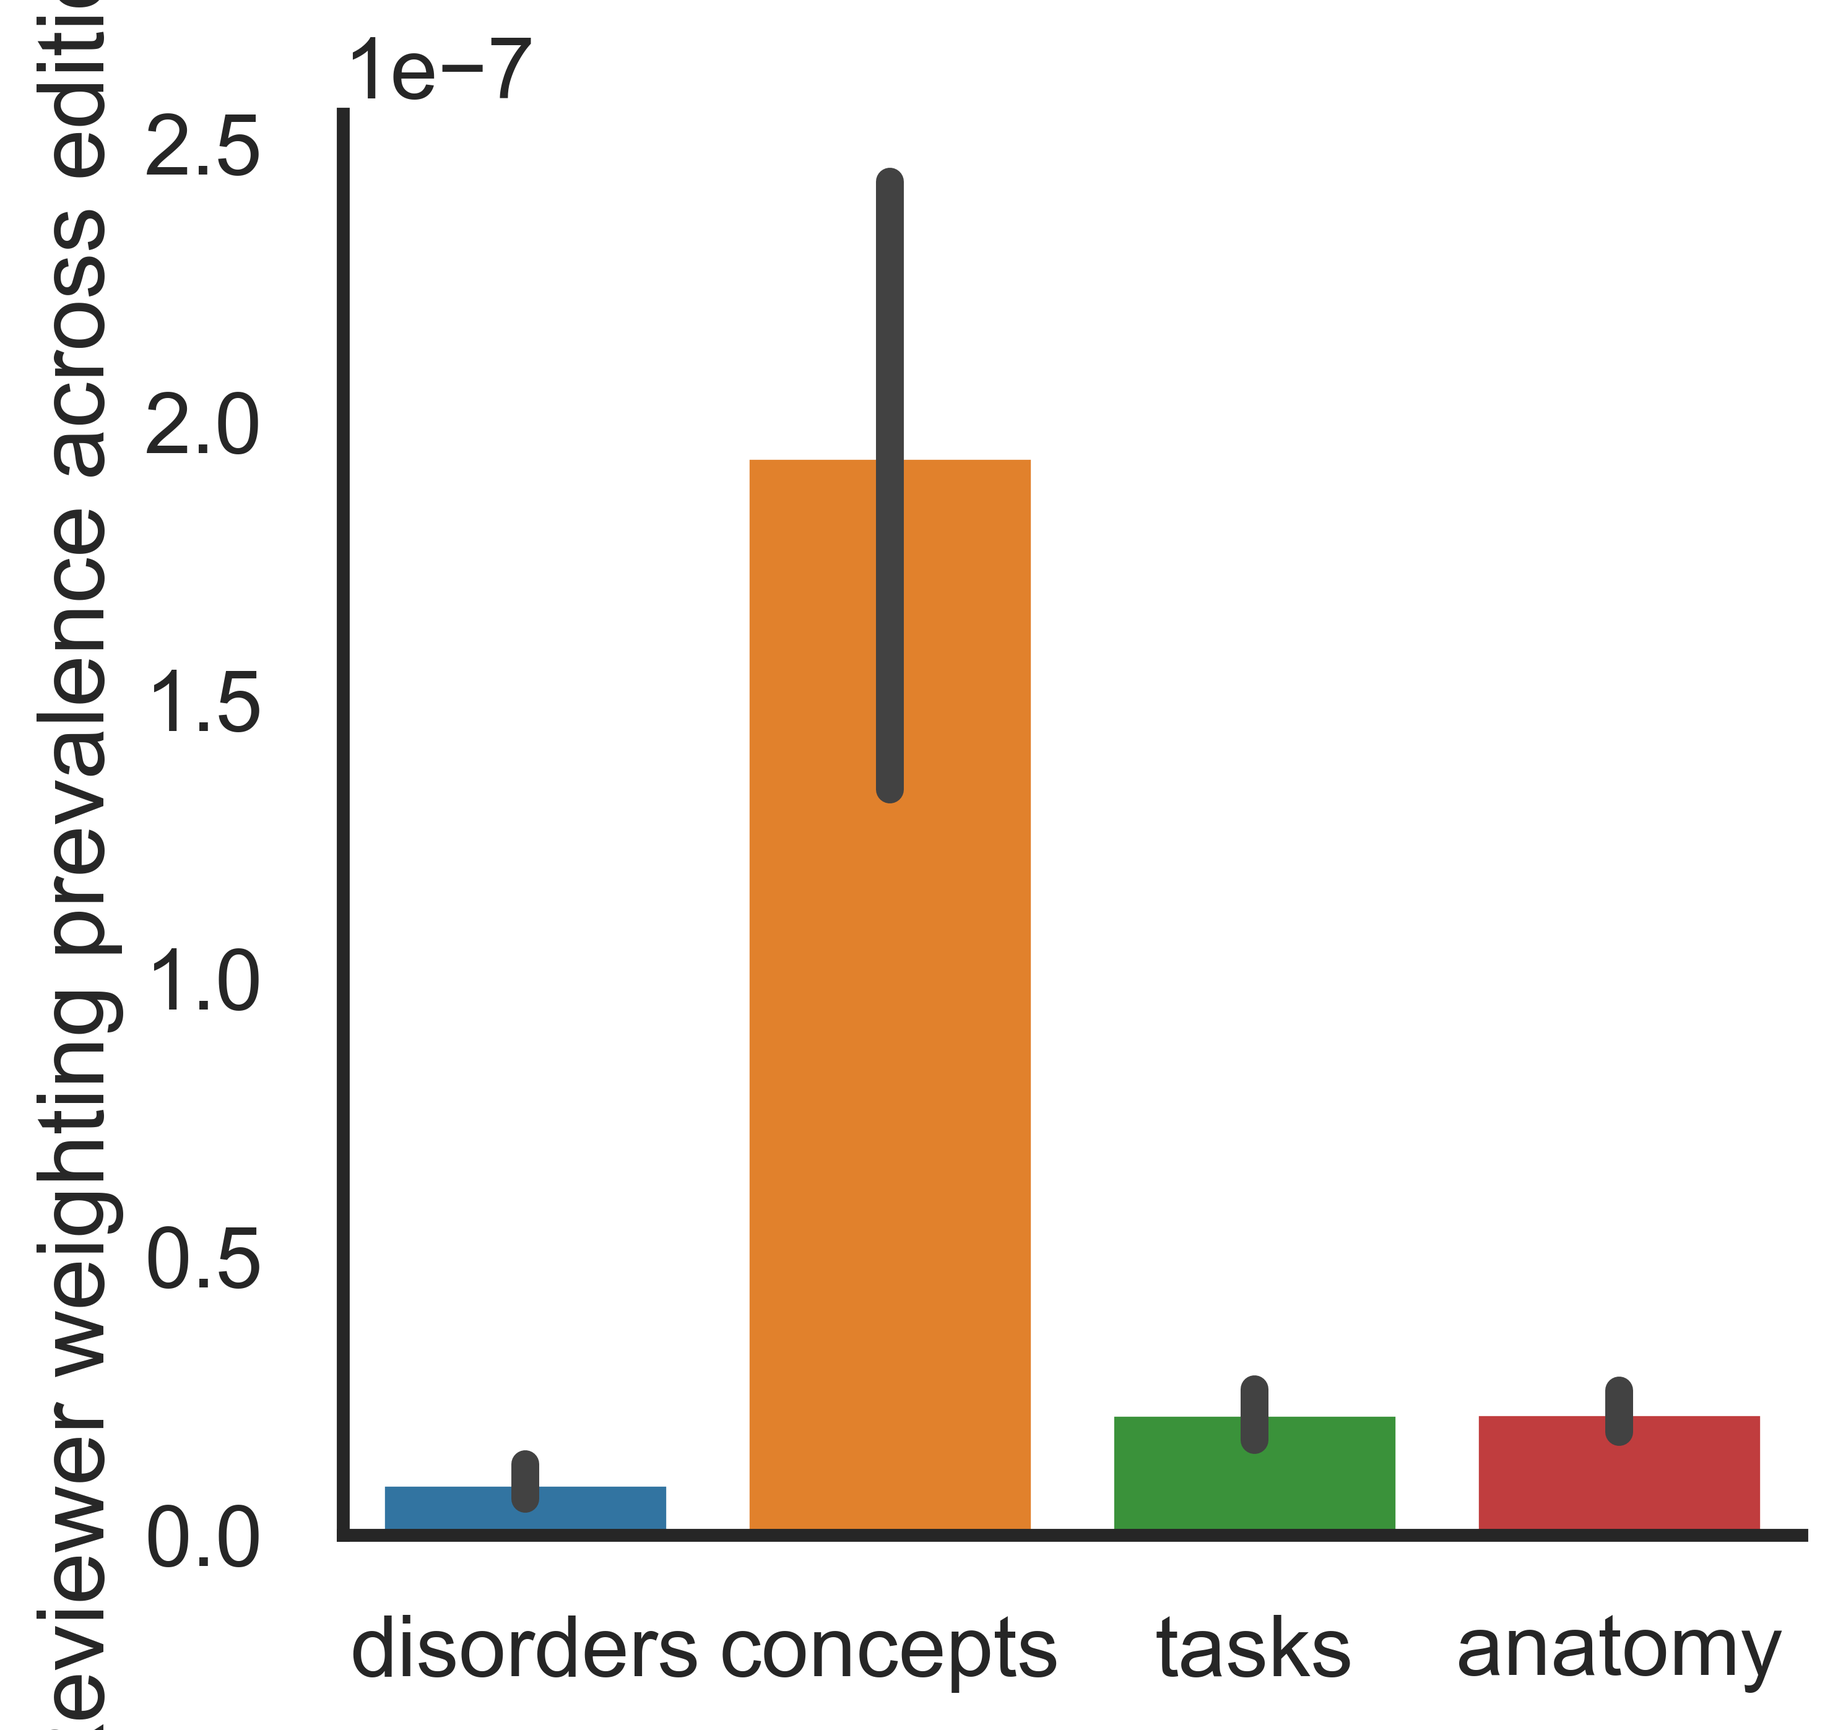
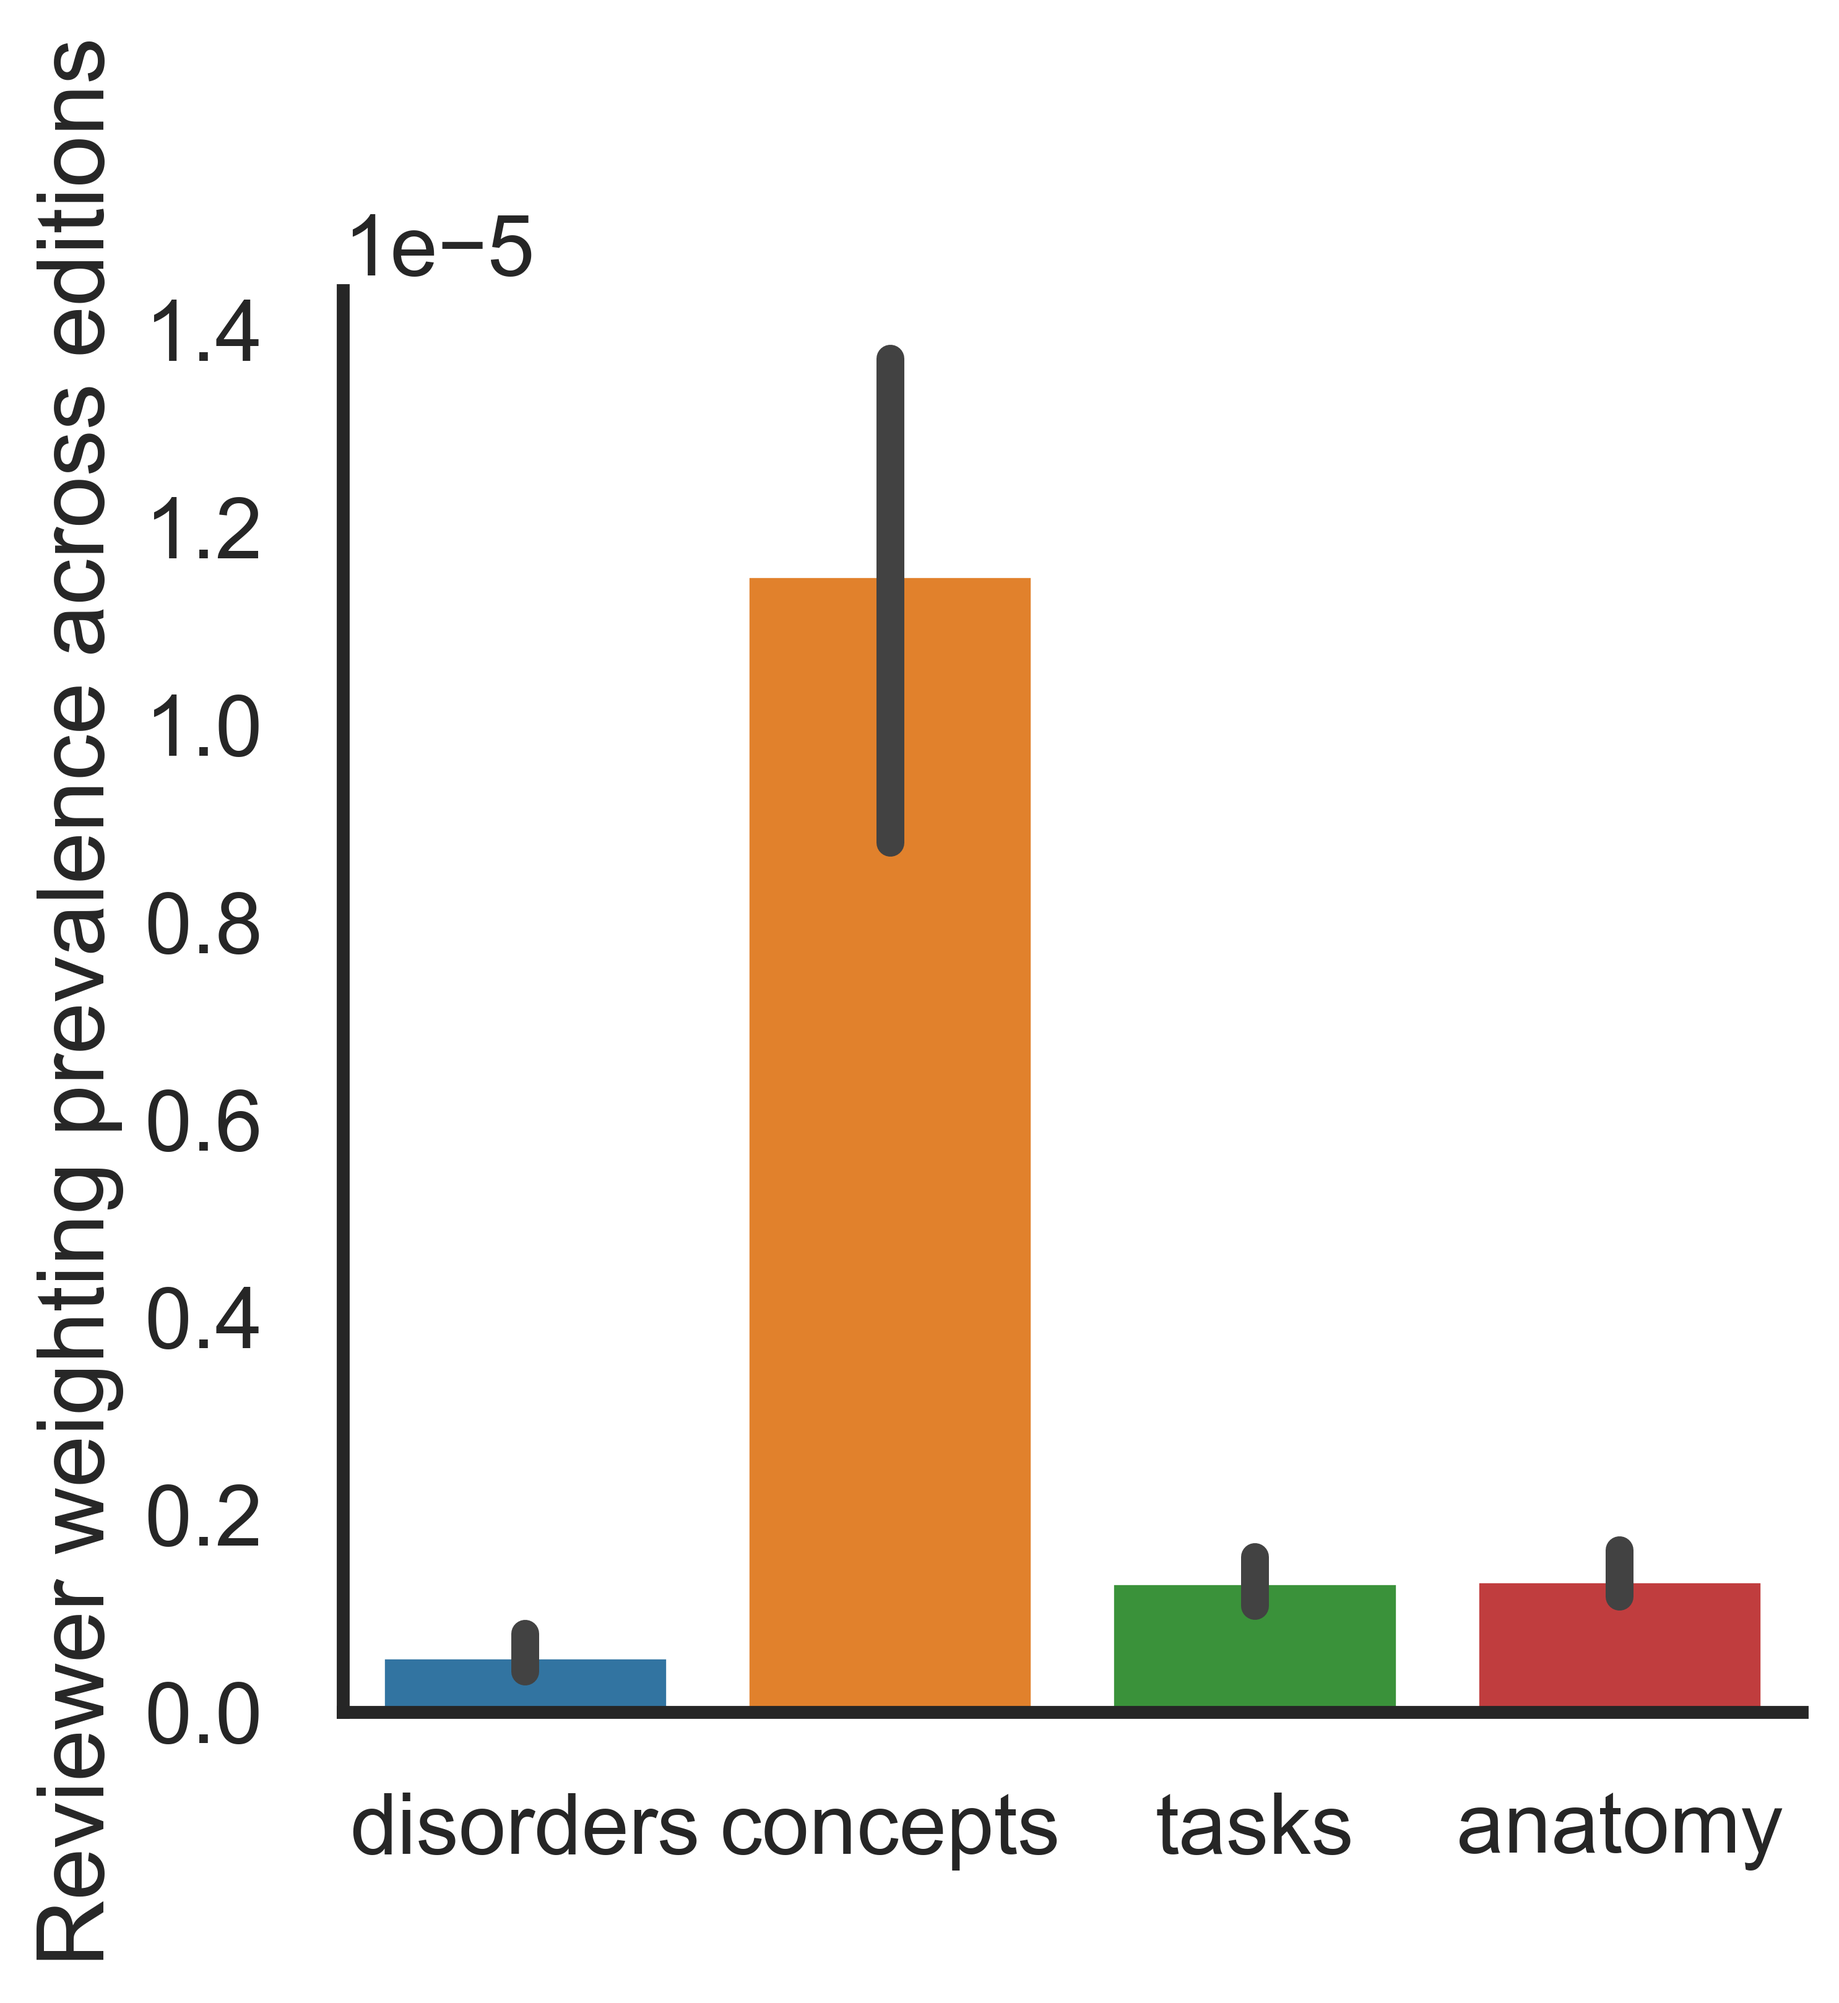
updated idx

diff --git a/code/multilexicon_analysis_revised.py b/code/multilexicon_analysis_revised.py
@@ -53,7 +53,12 @@ for idx,sepex_year in enumerate(sepex_editions):
         cogat_prevalence = search_lexicon(abstracts,lex_name) # get prevalence of cogat concepts in sepex abstracts
         cogat_prevalence_any = cogat_prevalence[cogat_prevalence[0] != 0] # remove rows with zeros (concepts that don't appear in SEPEX abstracts)
         cogat_overlap = len(cogat_prevalence_any) / len(cogat_prevalence) # compute overlap between cognitive atlas and SEPEX abstracts
-        cogat_overlap_new = len(cogat_prevalence_any) / len(abstracts) # reviewer: proportion of SEPEX terms present in lexicon
+        
+        # find raw concepts in abstracts
+        abstract_concepts = abstracts.split()
+        abstract_concepts = list(dict.fromkeys(abstract_concepts)) # remove duplicates
+
+        cogat_overlap_new = len(cogat_prevalence_any) / len(abstract_concepts) # reviewer: proportion of SEPEX terms present in lexicon
         print("Overlap between " + lex_name + " and SEPEX" + str(sepex_year) + ": " )
         print("New computation: " + str(cogat_overlap_new))
         print("Old computation: " + str(cogat_overlap))
@@ -66,8 +71,11 @@ for idx,sepex_year in enumerate(sepex_editions):
             draw_wordclod(cogat_prevalence_any, 'sepex' + str(sepex_year) + lex_name + '_cloud')
     
     # normalize by corpus size  
-    overlap_weighted.loc[idx,:] = overlap.loc[idx,:] / sum(lexicons_length)
-    overlap_weighted_new.loc[idx,:] = overlap_new.loc[idx,:] / sum(lexicons_length)
+    overlap_weighted.loc[idx,:] = overlap.loc[idx,:] / lexicons_length[idx]
+    # overlap_weighted.loc[idx,:] = overlap.loc[idx,:] / sum(lexicons_length)
+    overlap_weighted_new.loc[idx,:] = overlap_new.loc[idx,:] / lexicons_length[idx]
+    # overlap_weighted_new.loc[idx,:] = overlap_new.loc[idx,:] / sum(lexicons_length)
+    
 
 if plot_wordlcouds:
     plt.savefig(root + 'figures/wordclouds_all.png', dpi=600, bbox_inches='tight')
